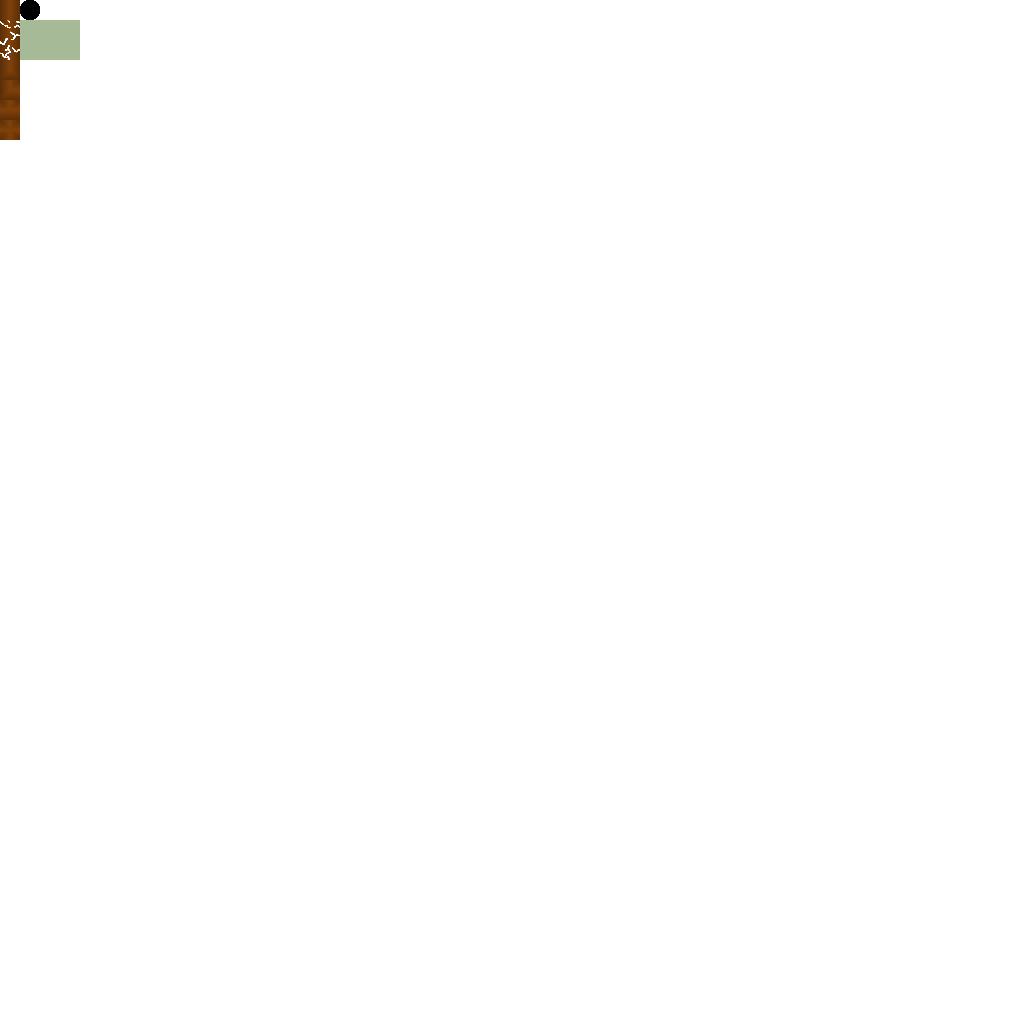
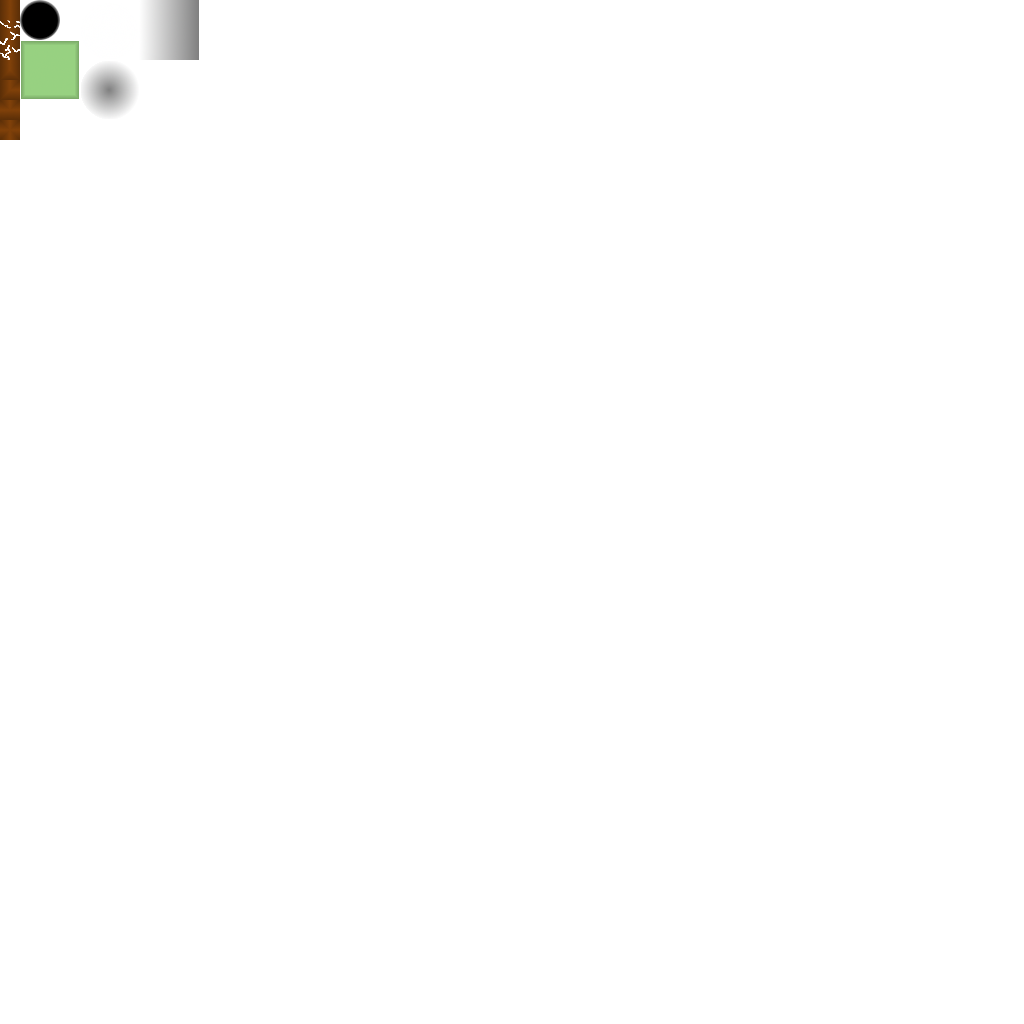
Add slopes

Changed region(s): [[0.0, 0.0, 0.125, 0.125], [0.125, 0.0, 0.2188, 0.0625]]

diff --git a/BallObject.cs b/BallObject.cs
@@ -251,15 +251,15 @@ namespace MiniGolf
                     break;
                 case ObjectType.Slope:
                     // get vector direction of slope from its angle, add to velocity
-                    Velocity += Vector2Helper.FromAngle(MathHelper.ToRadians(obj.GetGlobalRotation())) * Constants.LEVEL_SLOPE_FORCE * deltaTime;
+                    Push(Vector2Helper.FromAngle(MathHelper.ToRadians(obj.GetGlobalRotation())) * Constants.LEVEL_SLOPE_FORCE * deltaTime);
                     break;
                 case ObjectType.Hill:
                     // get vector direction of slope from center of the hill, add to velocity
-                    Velocity += Vector2Helper.FromAngle(Vector2Helper.Angle(obj.GetGlobalCenter(), GetGlobalCenter())) * Constants.LEVEL_SLOPE_FORCE * deltaTime;
+                    Push(Vector2Helper.FromAngle(Vector2Helper.Angle(obj.GetGlobalCenter(), GetGlobalCenter())) * Constants.LEVEL_SLOPE_FORCE * deltaTime);
                     break;
                 case ObjectType.Valley:
                     // get vector direction of slope from center of the hill, subtract from velocity
-                    Velocity -= Vector2Helper.FromAngle(Vector2Helper.Angle(obj.GetGlobalCenter(), GetGlobalCenter())) * Constants.LEVEL_SLOPE_FORCE * deltaTime;
+                    Push(-Vector2Helper.FromAngle(Vector2Helper.Angle(obj.GetGlobalCenter(), GetGlobalCenter())) * Constants.LEVEL_SLOPE_FORCE * deltaTime);
                     break;
                 case ObjectType.Sandbar:
                     // slow down the ball
@@ -292,6 +292,15 @@ namespace MiniGolf
             Hit(direction * power);
         }
 
+        public void Push(Vector2 directionAndPower)
+        {
+            // soccer ball not affected by pushing
+            if(_ballType != BallType.SoccerBall)
+            {
+                Velocity += directionAndPower;
+            }
+        }
+
         public void Stop()
         {
             Velocity = Vector2.Zero;
@@ -304,6 +313,12 @@ namespace MiniGolf
 
         public void Move(float deltaTime)
         {
+            // only move if in the moving state
+            if(_state != State.Moving)
+            {
+                return;
+            }
+
             // slow from friction
             SlowDown(_objectFriction * deltaTime);
 

diff --git a/MiniGolfGame.cs b/MiniGolfGame.cs
@@ -104,8 +104,8 @@ namespace MiniGolf
             GraphicsDevice.SetRenderTarget(null);
 
             // render the target to the screen
-            _targetBatch.Begin();
-            //_targetBatch.Begin(samplerState: SamplerState.PointClamp);
+            //_targetBatch.Begin();
+            _targetBatch.Begin(samplerState: SamplerState.PointClamp);
             _targetBatch.Draw(_target, new Rectangle(0, 0, GraphicsDevice.Viewport.Width, GraphicsDevice.Viewport.Height), Color.White);
             _targetBatch.End();
         }

diff --git a/LevelScene.cs b/LevelScene.cs
@@ -124,6 +124,18 @@ namespace MiniGolf
             base.Draw(gameTime);
         }
 
+        public override void Clean(GameObject gameObject)
+        {
+            // remove from lists
+            if (gameObject is LevelObject levelObject)
+            {
+                _typeObjects[levelObject.Type].Remove(levelObject);
+                _collisionObjects.Remove(levelObject);
+            }
+
+            base.Clean(gameObject);
+        }
+
         #region Game Management
 
         private bool EndOfTurn()

diff --git a/Scene.cs b/Scene.cs
@@ -77,8 +77,12 @@ namespace MiniGolf
             return gameObject;
         }
 
-        public void Destroy(GameObject gameObject)
+        public virtual void Clean(GameObject gameObject) { }
+
+        public virtual void Destroy(GameObject gameObject)
         {
+            Clean(gameObject);
+
             gameObject.Destroy();
         }
     }

diff --git a/SceneObject.cs b/SceneObject.cs
@@ -23,11 +23,11 @@ namespace MiniGolf
 
         public override void Destroy()
         {
+            // have scene clean up any resources
+            _scene.Clean(this);
+
             // destroy self as normal
             base.Destroy();
-
-            // also remove self from scene
-            SetParent(null);
         }
     }
 }

diff --git a/Constants.cs b/Constants.cs
@@ -23,7 +23,7 @@ namespace MiniGolf
 
         public const float LEVEL_DAMAGED_WALL_SLOW_DOWN = 0.2f;
         public const float LEVEL_BOX_SLOW_DOWN = 0.1f;
-        public const float LEVEL_SLOPE_FORCE = 1.0f;
+        public const float LEVEL_SLOPE_FORCE = 400.0f;
         public const float LEVEL_SANDBAR_FORCE = 100.0f;
     }
 }
